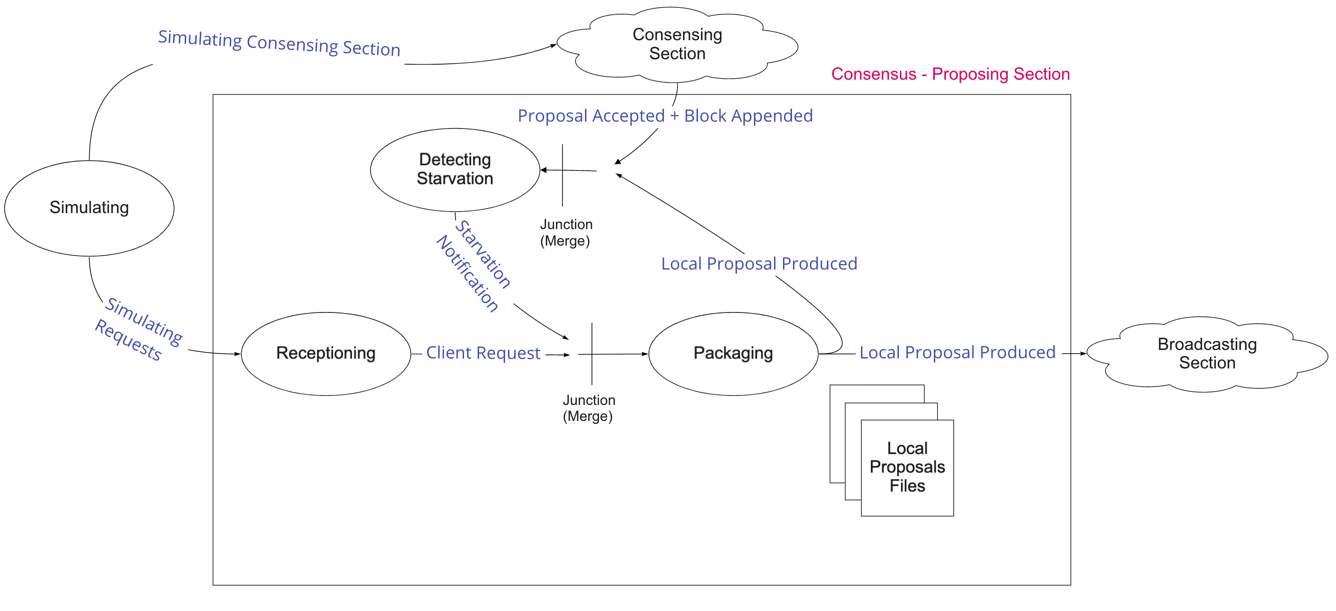
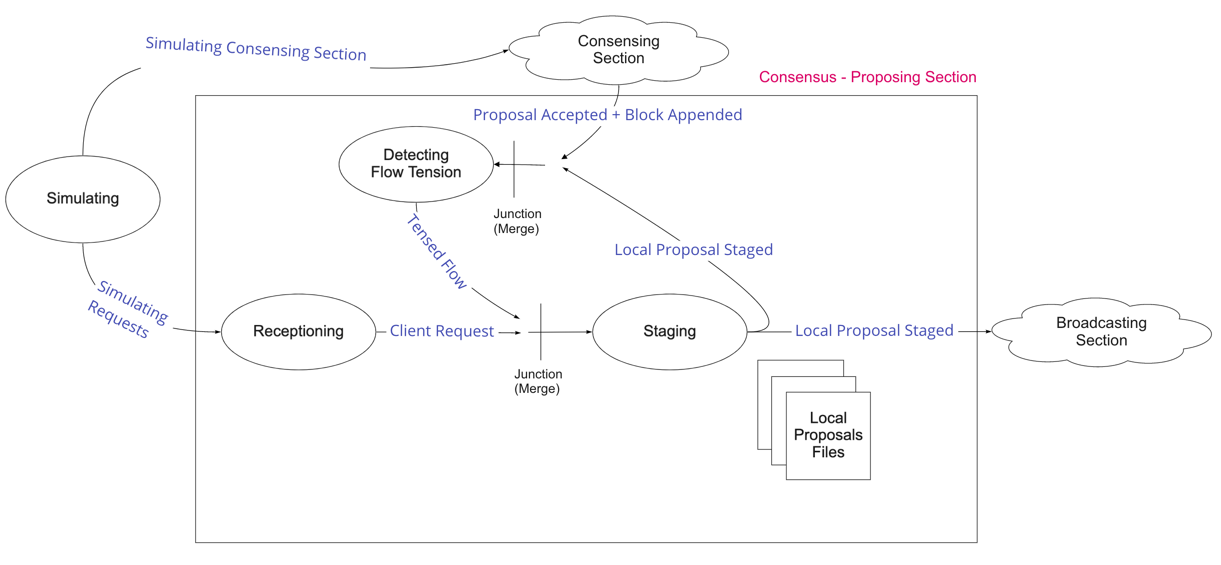
WIP

diff --git a/packages/staging/README.md b/packages/staging/README.md
@@ -1,5 +1,5 @@
-/ [Consensus](https://github.com/dolla-consortium/consensus) / [Proposing](https://github.com/dolla-consortium/consensus-proposing) / Packaging
-# Packaging Pipeline
+/ [Consensus](https://github.com/dolla-consortium/consensus) / [Proposing](https://github.com/dolla-consortium/consensus-proposing) / Staging
+# Staging Pipeline
 - [Overview](#overview)
 - [Project Tree](#project-tree)
 - [Pipeline](#pipeline)
@@ -18,12 +18,14 @@
 # Overview
 ![visual](documentation/media/overview.png)
 # Project Tree
-<img align="right" src="documentation/media/project-tree.png"><div>
+
+<img align="right" src="documentation/media/package-file-tree.png"><div>
+
 ### 1. Pipeline
 
-`Packaging` is a ***Pipeline***
-- a persisted input stream : [Input.hs](lib/Dolla/Consensus/Proposing/Packaging/Pipeline/IO/Input.hs)
-- a line of Pipes Welded together in [Pipeline.hs](lib/Dolla/Consensus/Proposing/Packaging/Pipeline/Pipeline.hs)
+`Staging` is a ***Pipeline***
+- a persisted input stream : [Input.hs](library/Dolla/Consensus/Proposing/Staging/Pipeline/IO/Input.hs)
+- a line of Pipes Welded together in [Pipeline.hs](library/Dolla/Consensus/Proposing/Staging/Pipeline/Pipeline.hs)
   - Sourcing initial inputs : `stream infinitely inputLog`
   - Composition of **deterministic** *Pipes*
     - Welding : Adapting IOs between pipes
@@ -32,7 +34,7 @@
   serializing .~> nonEmptying .~> capping .~> persisting 
   ```
   - Sinking final outputs : `sinking outputLog`
-- a persisted output stream : [Output.hs](lib/Dolla/Consensus/Proposing/Packaging/Pipeline/IO/Output.hs)
+- a persisted output stream : [Output.hs](library/Dolla/Consensus/Proposing/Staging/Pipeline/IO/Output.hs)
 
 ### 2. Pipes
 The pipeline is using **Pipes** `serializing, nonEmptying, capping, persisting`, meaning each of them has
@@ -40,27 +42,29 @@ The pipeline is using **Pipes** `serializing, nonEmptying, capping, persisting`,
 - A Stream Processing
 - An Output Stream
 
-### 3. Instances
+### 3. Execution Environment
 
-`Packaging` is Polymorphic by
+The `Staging` model (pipeline) is executed on
 - The Log Engine used
 - The Business Logic used on top of the consensus layer (requests in that context)
 
-You'll find in this folder different version of Pipeline.hs "polymorphically reduced" and concrete
-- [Pipeline.hs](lib/Dolla/Consensus/Proposing/Packaging/Instances/EventStore/Pipeline.hs) over the event store
-- [Pipeline.hs](lib/Dolla/Consensus/Proposing/Packaging/Instances/EventStore/Dolla/Pipeline.hs) over the event store + Dolla Dummy Requests (Concrete Version)
+You'll find in this folder different version of Pipeline.hs "polymorphically reduced" or concrete
+- [Pipeline.hs](library/Dolla/Consensus/Proposing/Staging/Execution/Environment/EventStore/Pipeline.hs) over the event store
+- [Pipeline.hs](library/Dolla/Consensus/Proposing/Staging/Execution/Environment/EventStore/Dolla/Pipeline.hs) over the event store + Dolla Dummy Requests (Concrete Version)
 
-`Packaging` has some DevOps features as well
+### 4. Executable
 
-- [Settings.hs](settings/lib/Dolla/Consensus/Proposing/Packaging/Instances/EventStore/Settings.hs)  always into a separated project `xxxx-packaging-settings` for deployment purposes in Zeus
-- [Dependencies.hs](lib/Dolla/Consensus/Proposing/Packaging/Instances/EventStore/Dependencies.hs) are derived from Settings if sub-dependencies are all Healthy
+`Staging` has some DevOps features as well
 
-[Execute.hs](lib/Dolla/Consensus/Proposing/Packaging/Instances/EventStore/Dolla/Execute.hs) is an **Instance** of the Pipeline
+- [Settings.hs](settings/library/Dolla/Consensus/Proposing/Staging/Execution/Environment/EventStore/Settings.hs)  always into a separated project `xxxx-packaging-settings` for deployment purposes in Zeus
+- [Dependencies.hs](library/Dolla/Consensus/Proposing/Staging/Execution/Environment/EventStore/Dependencies.hs) are derived from Settings if sub-dependencies are all Healthy
+
+[Executable.hs](executables/Executables.hs)
 - Perform the HealhtChecks to obtain the pipeline dependencies
 - Execute the pipeline + load the [junctions](#junction) in the EventStore Microservice
 - Put the Microservice back in HealthCheck mode if any Exception bubbles up in the pipeline during execution.
 
-**N.B** : Microservice configuration and Deployment Logic (Locally/Simulated/Production etc...) are defined in the package [Zeus](../zeus/)
+**N.B** : Microservice configuration and Deployment (Locally/Simulated/Production etc...) are defined in the package [Zeus](../zeus/)
 </div>
 
 # Pipeline
@@ -82,14 +86,14 @@ We are using the "User Defined Projections" feature from the EventStore to imple
 
 These features were used to move quicker on the proof of concept. We'll eventually implement our own soon.
 
-> Defined in [Junction.hs](lib/Dolla/Consensus/Proposing/Packaging/Instances/EventStore/Dolla/Junction.hs)
+> Defined in [Junction.hs](library/Dolla/Consensus/Proposing/Staging/Instances/EventStore/Dolla/Junction.hs)
 
-> Executed in [Execute.hs](lib/Dolla/Consensus/Proposing/Packaging/Instances/EventStore/Dolla/Execute.hs)
+> Executed in [Execute.hs](library/Dolla/Consensus/Proposing/Staging/Instances/EventStore/Dolla/Execute.hs)
 
 ## IOs
 ### Input/Commands
 
-> Defined in [Input.hs](lib/Dolla/Consensus/Proposing/Packaging/Pipeline/IO/Input.hs)
+> Defined in [Input.hs](library/Dolla/Consensus/Proposing/Staging/Pipeline/IO/Input.hs)
 
 #### 1. Package request
 
@@ -119,9 +123,9 @@ Executing that command means :
 
 ### Output/Events
 
-> Defined [Output.hs](lib/Dolla/Consensus/Proposing/Packaging/Pipeline/IO/Output.hs)
+> Defined [Output.hs](library/Dolla/Consensus/Proposing/Staging/Pipeline/IO/Output.hs)
 
-Packaging produces
+Staging produces
 - A Notification : `LocalProposalProduced {localOffset :: Offset}`
 - a File `{localOffset}.proposal` containing requests with
 ```
@@ -133,7 +137,7 @@ To produce the expected pipeline output , we are combining different pipes all t
 - A simple function composition (.)
 - A welding : `map` to adapt `Output Pipe(x)`  with `Input Pipe(x+1)`
 
-The `Packaging` pipe recipe is
+The `Staging` pipe recipe is
 ```haskell
   stream infinitely inputLog -- sourcing
      ~> serializing
@@ -142,9 +146,9 @@ The `Packaging` pipe recipe is
     .~> persisting proposalRootFolder
     .~> sinking outputLog
 ```
-> Defined in [Pipeline.hs](lib/Dolla/Consensus/Proposing/Packaging/Pipeline/Pipeline.hs)
+> Defined in [Pipeline.hs](library/Dolla/Consensus/Proposing/Staging/Pipeline/Pipeline.hs)
 
-> The welding between each pipe is defined in [/Welding/BluePrint.hs](lib/Dolla/Consensus/Proposing/Packaging/Pipeline/Welding/BluePrint.hs)
+> The welding between each pipe is defined in [/Welding/BluePrint.hs](library/Dolla/Consensus/Proposing/Staging/Pipeline/Welding/BluePrint.hs)
 
 The pipe recipe goals are
 ### 1. Size properly the proposals
@@ -164,7 +168,7 @@ N.B : [`Serializing`](#serializing) will be removed eventually. We'll evaluate t
 # Pipes
 ## Serializing
 
-> Defined in [Pipe.hs](lib/Dolla/Consensus/Proposing/Packaging/Pipes/Serializing/Pipe.hs)
+> Defined in [Pipe.hs](library/Dolla/Consensus/Proposing/Staging/Pipes/Serializing/Pipe.hs)
 
 Just Transform `request` in `SerializedRequest`
 
@@ -181,8 +185,8 @@ newtype SerializedRequest = SerializedRequest [Word8] deriving (Eq,Show)
 Remembering the initial input of the section
 ```haskell
 data Input request
-  = ForceProposalProduction -- ^ ask to "Packaging Pipeline" to flush all the requests currently collected
-  | Package request -- ^ ask to to "Packaging Pipeline" to package the request into a proposal according
+  = ForceProposalProduction -- ^ ask to "Staging Pipeline" to flush all the requests currently collected
+  | Package request -- ^ ask to to "Staging Pipeline" to package the request into a proposal according
                     -- some properties (see README.md)
   deriving (Eq,Show)
 
@@ -206,7 +210,7 @@ Said differently, we want to get the following property
 
 With the following Natural Transformation
 ``` haskell
-Packaging.Input request ~> Maybe request
+Staging.Input request ~> Maybe request
 ```
 We want the following stream property
 - Never start by `Nothing`
@@ -216,9 +220,9 @@ E.g - We want the following transformation
 ``` haskell
 [Nothing, Just r1, Just r2, Nothing, Nothing, Nothing] -> [Just r1, Just r2, Nothing]
 ```
-> Implemented in [Pipe.hs](lib/Dolla/Consensus/Proposing/Packaging/Pipes/NonEmptying/Pipe.hs)
+> Implemented in [Pipe.hs](library/Dolla/Consensus/Proposing/Staging/Pipes/NonEmptying/Pipe.hs)
 
-> Tested in [PipeSpec.hs](test/Dolla/Consensus/Proposing/Packaging/Pipes/NonEmptying/PipeSpec.hs)
+> Tested in [PipeSpec.hs](test/Dolla/Consensus/Proposing/Staging/Pipes/NonEmptying/PipeSpec.hs)
 
 ## Capping
 
@@ -246,7 +250,7 @@ instance Weldable (NonEmptying.Output request) (Capping.Input request) where
       Nothing  -> Capping.AskForACut
       Just request -> Capping.Add request
 ```
-With the Following Output in [Output.hs](lib/Dolla/Consensus/Proposing/Packaging/Pipes/Capping/Output.hs)
+With the Following Output in [Output.hs](library/Dolla/Consensus/Proposing/Staging/Pipes/Capping/Output.hs)
 ```haskell
 data Output request
   = Cut
@@ -273,9 +277,9 @@ Using a `Fold executed with a postscan` with the following State Machine
 
 ![state-machine](documentation/media/state-machine.png)
 
-> Implemented in [Pipe.hs](lib/Dolla/Consensus/Proposing/Packaging/Pipes/Capping/Pipe.hs)
+> Implemented in [Pipe.hs](library/Dolla/Consensus/Proposing/Staging/Pipes/Capping/Pipe.hs)
 
-> Tested in [PipeSpec.hs](test/Dolla/Consensus/Proposing/Packaging/Pipes/Capping/PipeSpec.hs)
+> Tested in [PipeSpec.hs](test/Dolla/Consensus/Proposing/Staging/Pipes/Capping/PipeSpec.hs)
 
 ## Persisting
 
@@ -306,6 +310,6 @@ Using Streamly FileSystem primitives
   - produce `LocalProposalPersisted x`
   - `x = x + 1`
 
-> Implemented in [Pipe.hs](lib/Dolla/Consensus/Proposing/Packaging/Pipes/Persisting/Pipe.hs)
+> Implemented in [Pipe.hs](library/Dolla/Consensus/Proposing/Staging/Pipes/Persisting/Pipe.hs)
 
-> Integration Test in [PipeSpec.hs](test/Dolla/Consensus/Proposing/Packaging/Pipes/Persisting/PipeSpec.hs)
+> Integration Test in [PipeSpec.hs](test/Dolla/Consensus/Proposing/Staging/Pipes/Persisting/PipeSpec.hs)

diff --git a/README.md b/README.md
@@ -8,26 +8,26 @@
 
 # Section Overview
 
-As Consensus Flow Entry Point, "Proposing" means taking the responsibility of
-**receptioning** requests from customers and consortium and **packaging** them into local proposals.
-Each of these local proposals are proposed for transactions into the consortium block stream.
+"Proposing" means
+- **Receptioning** requests from customers and consortium members
+- **Staging** these requests packaged into local proposals for being consumed by the consensus.
+
+Each of these local proposals once accepted by the consortium will be uniformly transacted on each consortium node.  
+Then transactions will be appended into each node ledgers.
 
 A **Section** is a meaningful Set of Pipelines and Junctions put together.
 
-![proposing-overview](proposing-overview.png)
-
-> <img align="center" src="https://via.placeholder.com/15/24A712/000000?text=+"> Worth Mentioning : [Packaging](/packages/packaging/) is the core of this section.  
-
+![proposing-overview](documentation/media/proposing-overview.png)
 
 - [Receptioning](/packages/receptioning) : Client/Server for collecting requests.
-- [Detecting Starvation](/packages/detecting-starvation) : Detect that local proposals produced have been consumed and that the consensus is asking for producing new ones.
-- [Packaging](/packages/packaging/) : Produce Local Proposal Files with the following properties
+- [Detecting Tension](/packages/detecting-tension) : Detect if the local proposal flow is tensed, meaning if the consensus has consumed more local proposals than being staged.
+- [Staging](/packages/staging) : Stage Local Proposal Files for being consumed by the consensus. Local Proposals have the following properties
   - `Proposals are never empty`
   - `Proposals file size < configurable size limit`
   - Filename - `x.proposal` with `x` the offset of proposal produced
 - [Simulating](/packages/simulating) : Simulate the proposing input streams
-  - Send dummy requests to `Receptioning` and simulate the downstream consumption of local proposal.
-  - 2 modes are available :
+  - Send dummy requests to `Receptioning` and simulate the downstream local proposal consumption.
+  - 2 available modes
     - **Overflowing** : Sending more requests than the consortium can consume
     - **UnderSupplying** : Sending less request than the consortium can consume
 
